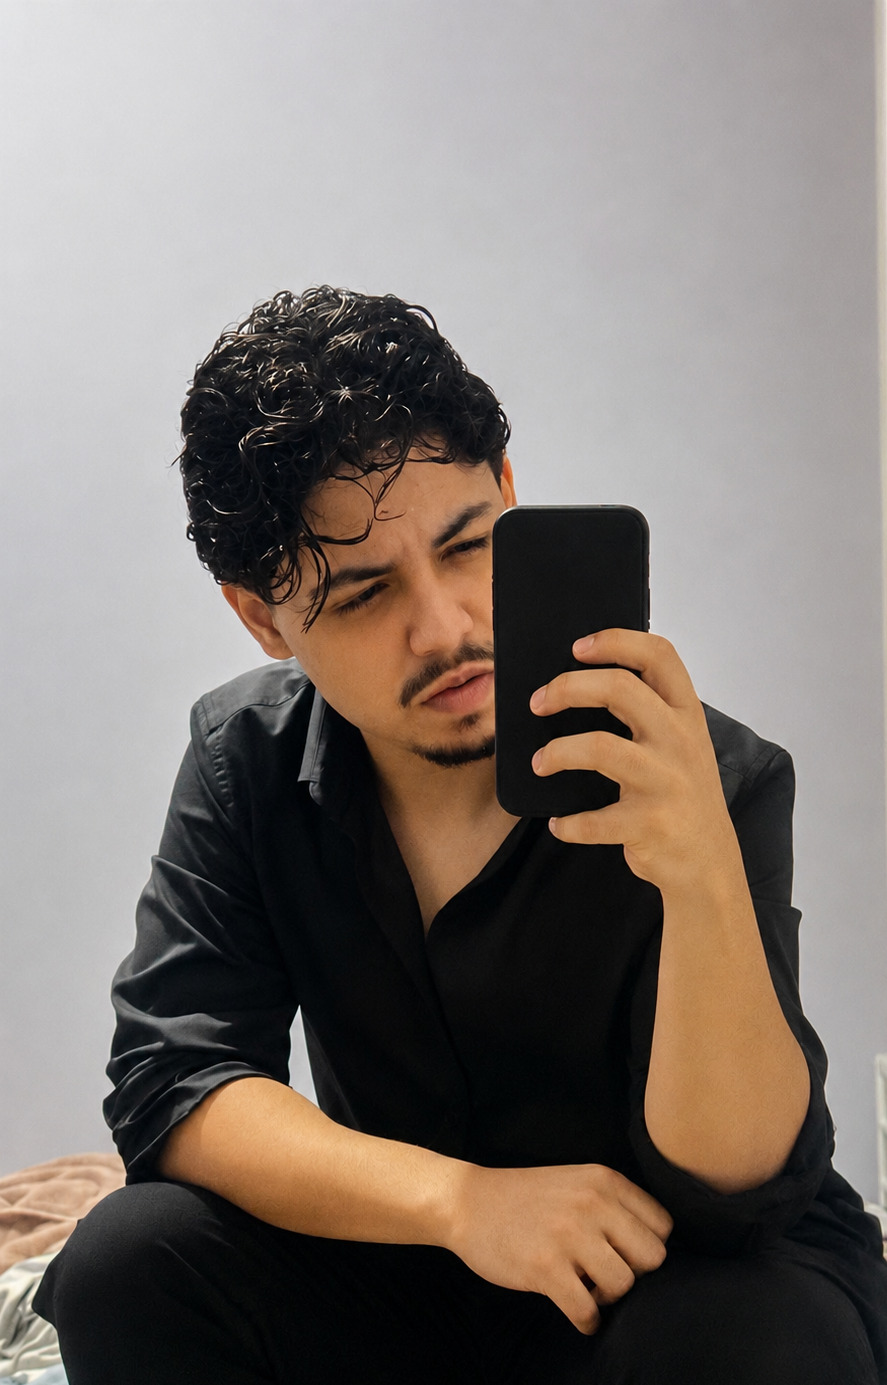
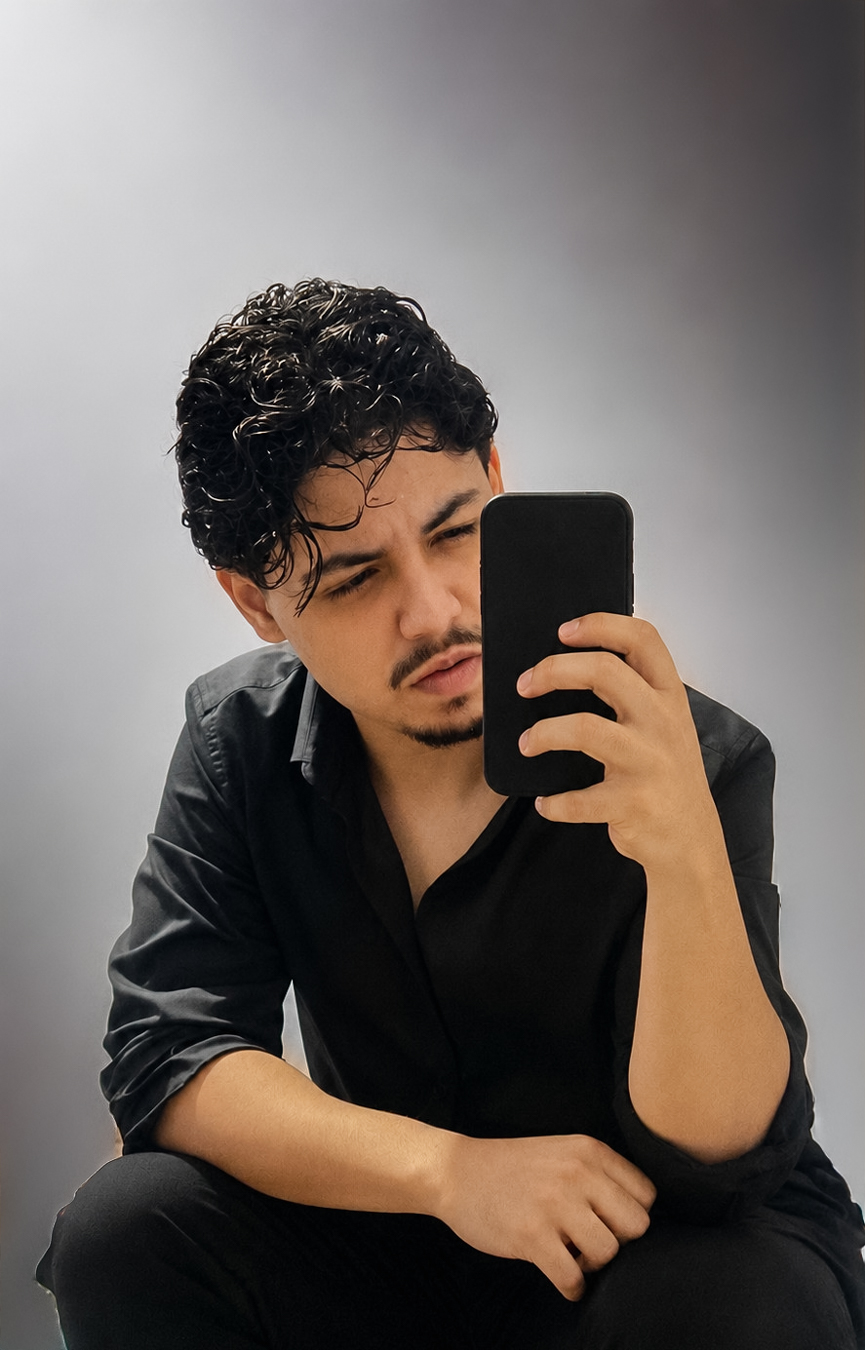
upd

diff --git a/index.html b/index.html
@@ -32,7 +32,7 @@
       "name": "Vitor Roma",
       "jobTitle": "Fotógrafo",
       "url": "https://romavitordev.github.io/romafotografias/",
-      "image": "https://romavitordev.github.io/romafotografias/Selfie.PNG",
+      "image": "E:\romafotografias\perfil\selfie.JPG",
       "address": { "@type": "PostalAddress", "addressLocality": "Sorocaba", "addressRegion": "SP", "addressCountry": "BR" },
       "sameAs": ["https://instagram.com/romart.photos"]
     }
